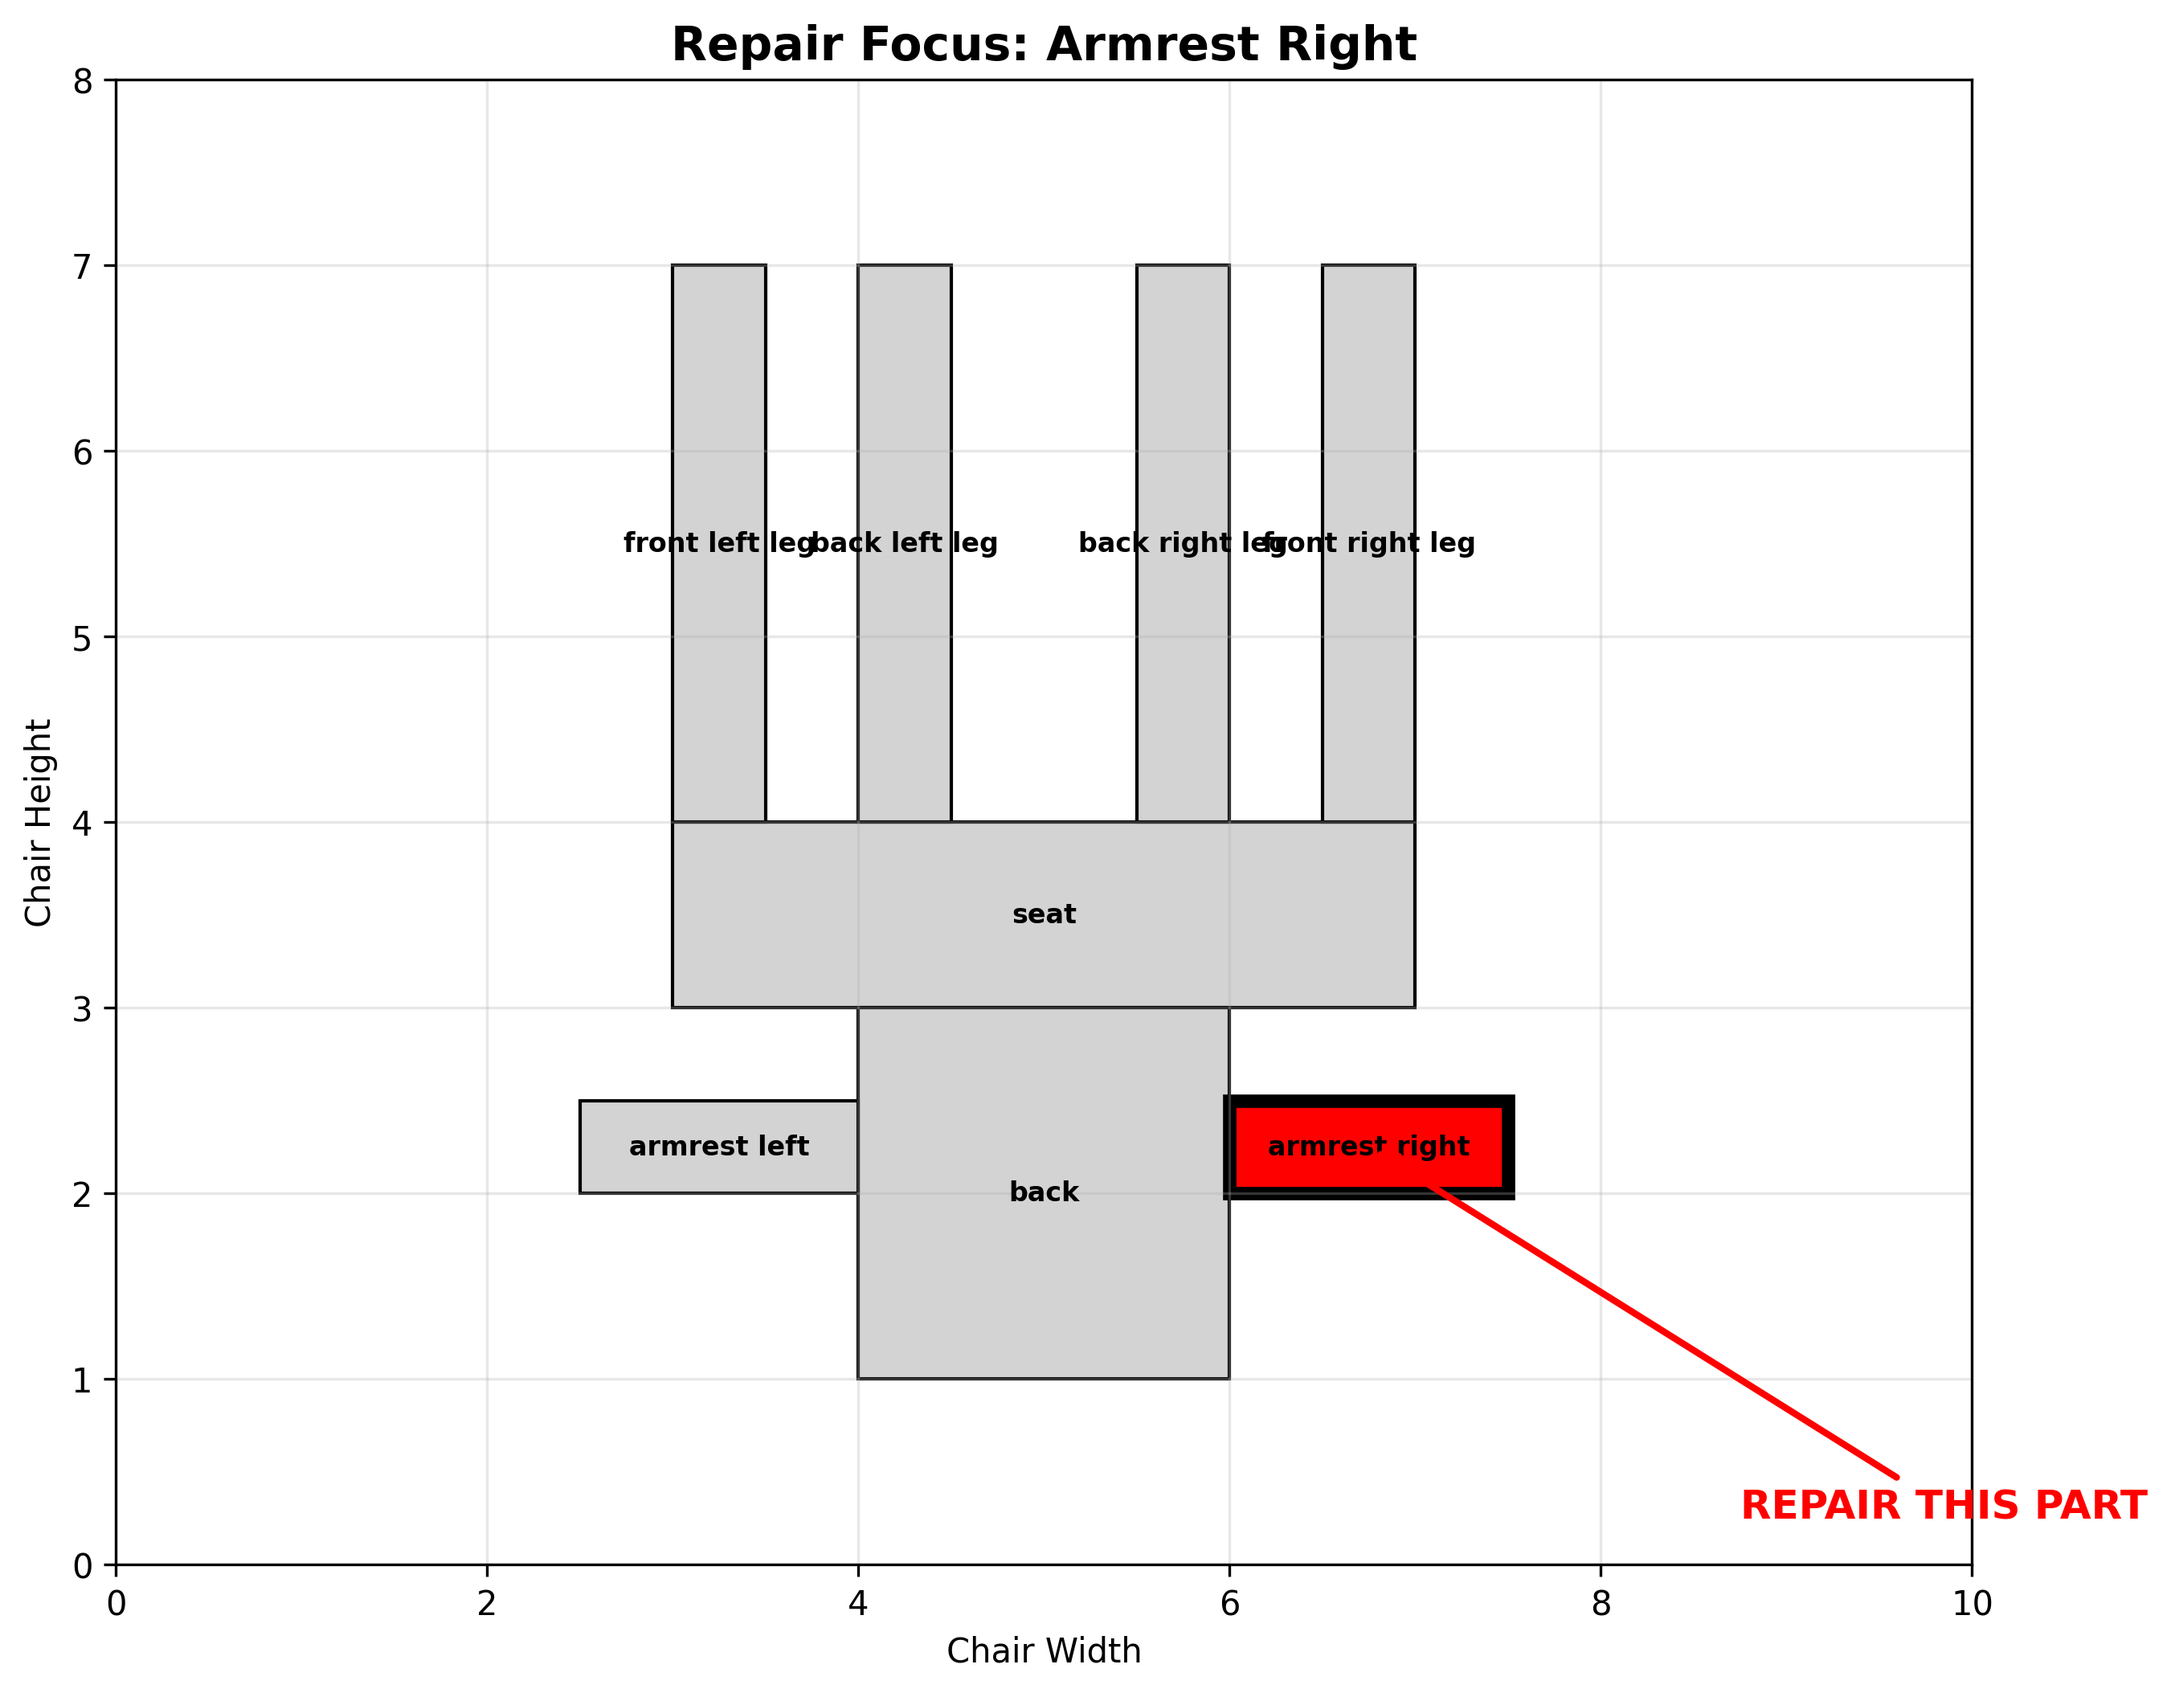
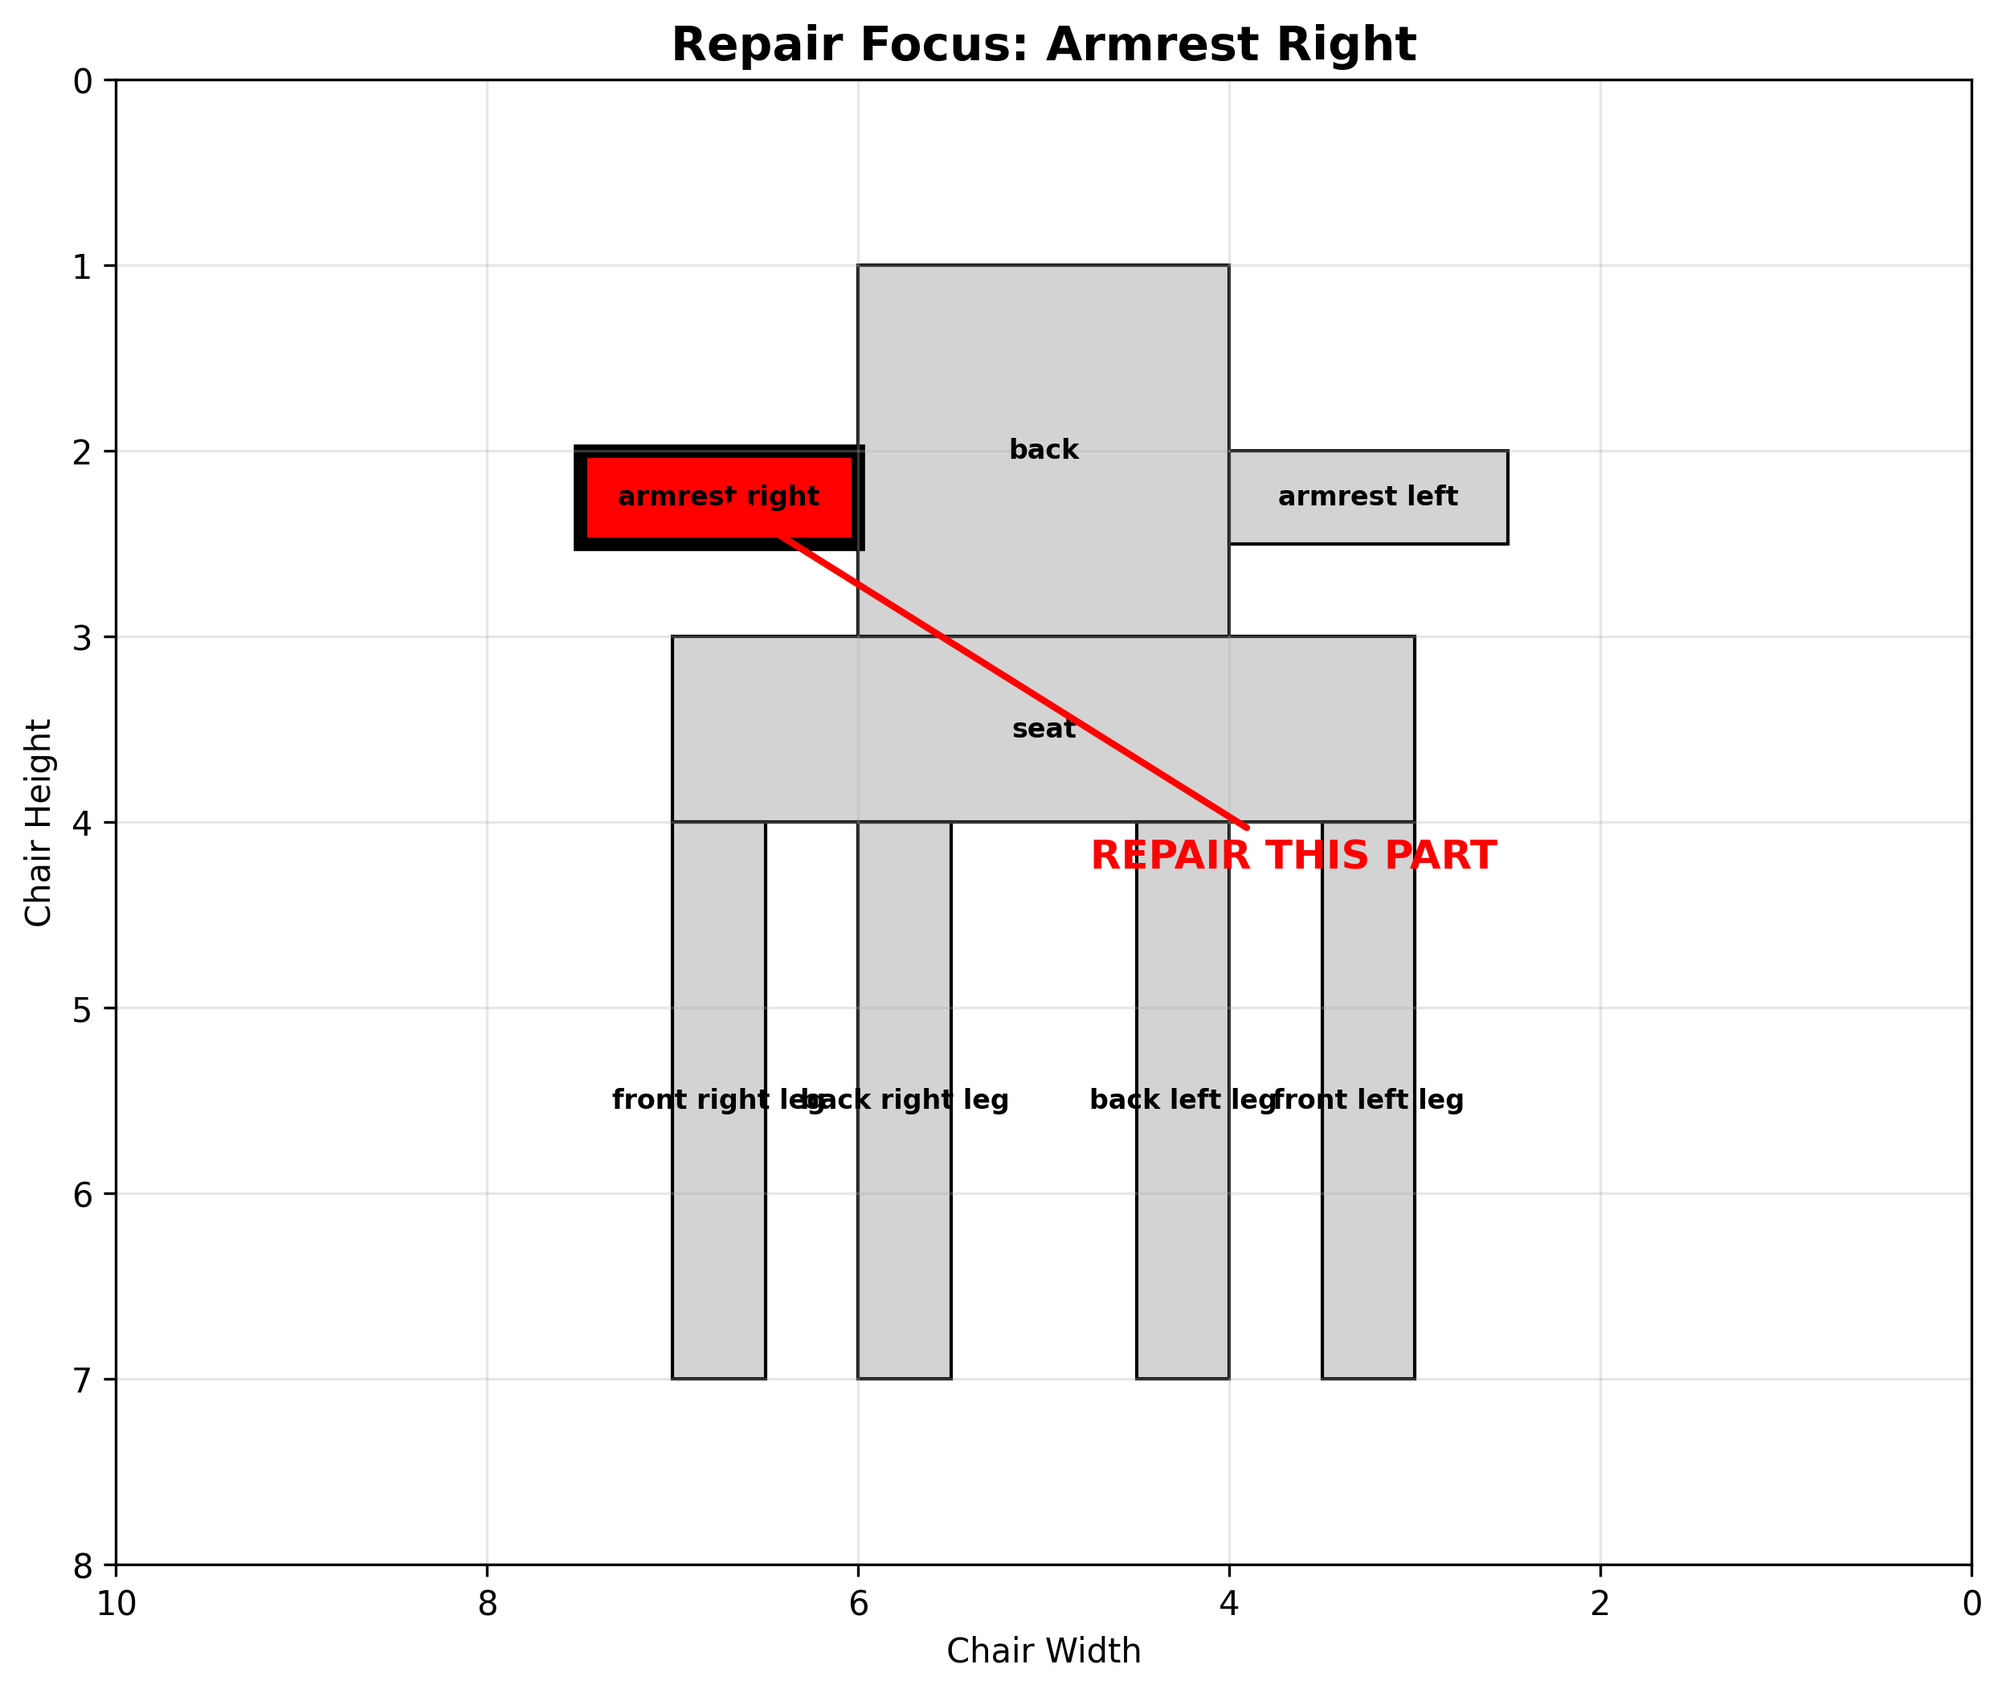
fix the visual guidance flip chair

diff --git a/scripts/render_visual_guidance.py b/scripts/render_visual_guidance.py
@@ -26,7 +26,8 @@ PARTS = [
     "back_left_leg","back_right_leg","armrest_left","armrest_right"
 ]
 
-def render_step_visual(model_path, highlighted_part_idx, save_path, damage_report_path=None):
+def render_step_visual(model_path, highlighted_part_idx, save_path,
+                       damage_report_path=None, flip_horizontal=True, flip_vertical=True):
     fig, ax = plt.subplots(1, 1, figsize=(10, 8))
 
     chair_parts = {
@@ -40,35 +41,42 @@ def render_step_visual(model_path, highlighted_part_idx, save_path, damage_repor
         "armrest_right":[6,2,7.5,2.5],
     }
 
-    paired_parts = set()
+    # use only part↔damage pairs as targets
+    targets = set()
     if damage_report_path and os.path.exists(damage_report_path):
         with open(damage_report_path, "r") as f:
             rep = json.load(f)
-        # highlight only the paired targets
-        for dp in rep.get("detected_pairs", []):
-            paired_parts.add(dp["part"])
+        targets = {dp["part"] for dp in rep.get("detected_pairs", [])}
 
-    for i, (name, coords) in enumerate(chair_parts.items()):
-        x1,y1,x2,y2 = coords
-        is_focus = i == highlighted_part_idx
-        is_target = name in paired_parts
+    for i, (name, (x1,y1,x2,y2)) in enumerate(chair_parts.items()):
+        is_focus  = i == highlighted_part_idx
+        is_target = name in targets
         color = "red" if (is_focus or is_target) else "lightgray"
         width = 4 if is_focus else (3 if is_target else 1)
-        rect = plt.Rectangle((x1,y1), x2-x1, y2-y1, facecolor=color, edgecolor="black", linewidth=width)
-        ax.add_patch(rect)
-        ax.text((x1+x2)/2, (y1+y2)/2, name.replace("_"," "), ha="center", va="center", fontsize=8, weight="bold")
+        ax.add_patch(plt.Rectangle((x1,y1), x2-x1, y2-y1,
+                                   facecolor=color, edgecolor="black", linewidth=width))
+        ax.text((x1+x2)/2, (y1+y2)/2, name.replace("_"," "),
+                ha="center", va="center", fontsize=8, weight="bold")
 
     if 0 <= highlighted_part_idx < len(PARTS):
         name = PARTS[highlighted_part_idx]
-        px1,py1,px2,py2 = chair_parts[name]
-        cx, cy = (px1+px2)/2, (py1+py2)/2
-        ax.set_title(f"Repair Focus: {name.replace('_',' ').title()}", fontsize=14, weight="bold")
-        ax.annotate("REPAIR THIS PART", xy=(cx,cy), xytext=(cx+2,cy-2),
+        x1,y1,x2,y2 = chair_parts[name]
+        cx, cy = (x1+x2)/2, (y1+y2)/2
+        ax.set_title(f"Repair Focus: {name.replace('_',' ').title()}",
+                     fontsize=14, weight="bold")
+        dx = -2 if flip_horizontal else 2
+        dy =  2 if flip_vertical   else -2
+        ax.annotate("REPAIR THIS PART", xy=(cx,cy), xytext=(cx+dx, cy+dy),
                     arrowprops=dict(arrowstyle="->", color="red", lw=2),
                     fontsize=12, color="red", weight="bold")
 
     ax.set_xlim(0,10); ax.set_ylim(0,8); ax.set_aspect("equal")
     ax.grid(True, alpha=0.3); ax.set_xlabel("Chair Width"); ax.set_ylabel("Chair Height")
+
+    # fixes: real-chair orientation
+    if flip_horizontal: ax.invert_xaxis()  # left/right correct
+    if flip_vertical:   ax.invert_yaxis()  # back on top, legs at bottom
+
     os.makedirs(os.path.dirname(save_path), exist_ok=True)
     plt.savefig(save_path, dpi=300, bbox_inches="tight"); plt.close()
     print(f"Visual guidance saved to: {save_path}")

diff --git a/main.py b/main.py
@@ -95,7 +95,8 @@ def main():
     for dp in pairs:
         part = dp["part"]; idx = PARTS.index(part) if part in PARTS else -1
         render_step_visual(None, idx, f"data/visual_guides/{part}_repair_guide.png",
-                           "outputs/stage1_parts.json")
+                   "outputs/stage1_parts.json", flip_horizontal=True, flip_vertical=True)
+
 
     # Stage-II graph from pairs
     graph = parse_manual(None, "outputs/stage1_parts.json")
